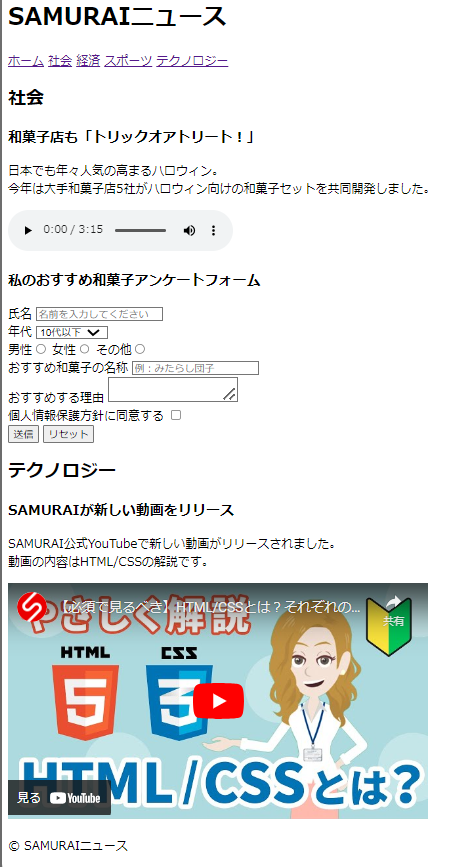
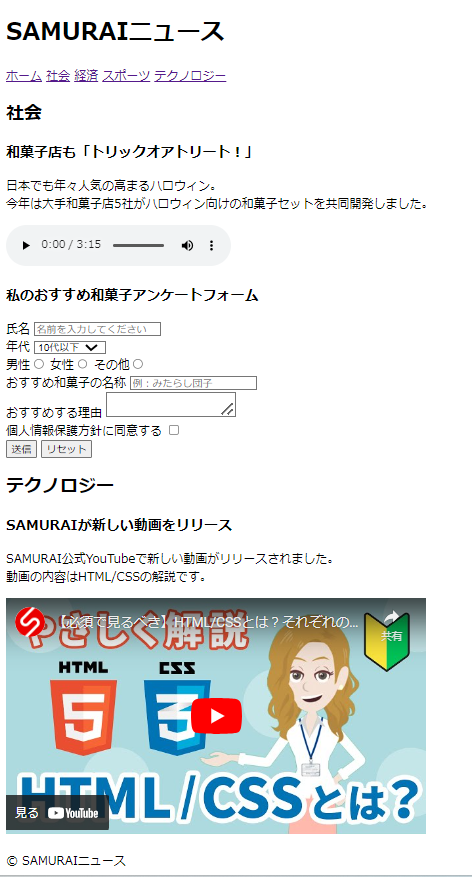
Add files via upload

Changed region(s): [[0.0, 0.0, 1.0, 1.0]]

diff --git a/kadai_008/kadai_008.html b/kadai_008/kadai_008.html
@@ -6,8 +6,7 @@
     <meta charset="UTF-8">
   </head>
 
-<hr>
-
+<body>
   <header>
     <h1>SAMURAIニュース</h1>
     <nav>
@@ -19,7 +18,6 @@
     </nav>
   </header>
 
-  <body>
   <main>
     <article>
       <section>
@@ -78,9 +76,11 @@
       </section>
     </article>
   </main>
-  </body>
+  
   <footer>
     <p>&copy; SAMURAIニュース</p>
   </footer>
-  <hr>
+</body>
+
+  
 </html>
